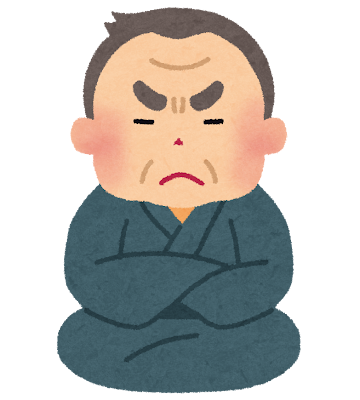
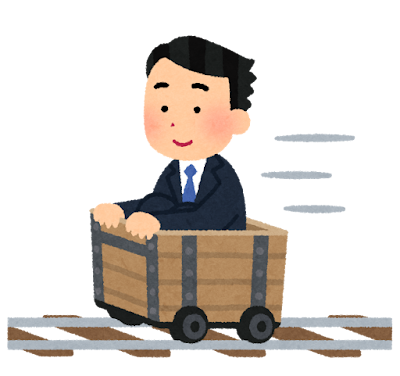
[DESIGN] 앞만 보는 사람을 레일 위 광차로 바꾼다 (#59)
팔짱 끼고 찌푸린 노인은 깐깐함은 실렸는데 열 장 중 혼자 노인에 전통복이라
세트에서 튀었고, 무엇보다 "앞만 본다" 는 동작이 없었다.

레일 위 광차를 타고 앞으로 가는 회사원으로 바꾼다. 정해진 선로를 앞만 보고
간다는 게 그림 하나로 다 보이고, 옆을 안 본다는 뜻도 같이 실린다.

diff --git a/src/lib/copy/result.ts b/src/lib/copy/result.ts
@@ -92,7 +92,7 @@ export const illustrationCopy = {
   altByWeak: {
     木: '자리에 앉아 하던 일을 하는 사람',
     火: '숨을 고르는 사람',
-    土: '팔짱을 끼고 찌푸린 사람',
+    土: '레일 위 광차를 타고 앞으로 가는 회사원',
     金: 'OK 사인을 내는 회사원',
     水: '가방을 들고 달려 나가는 회사원',
   },
